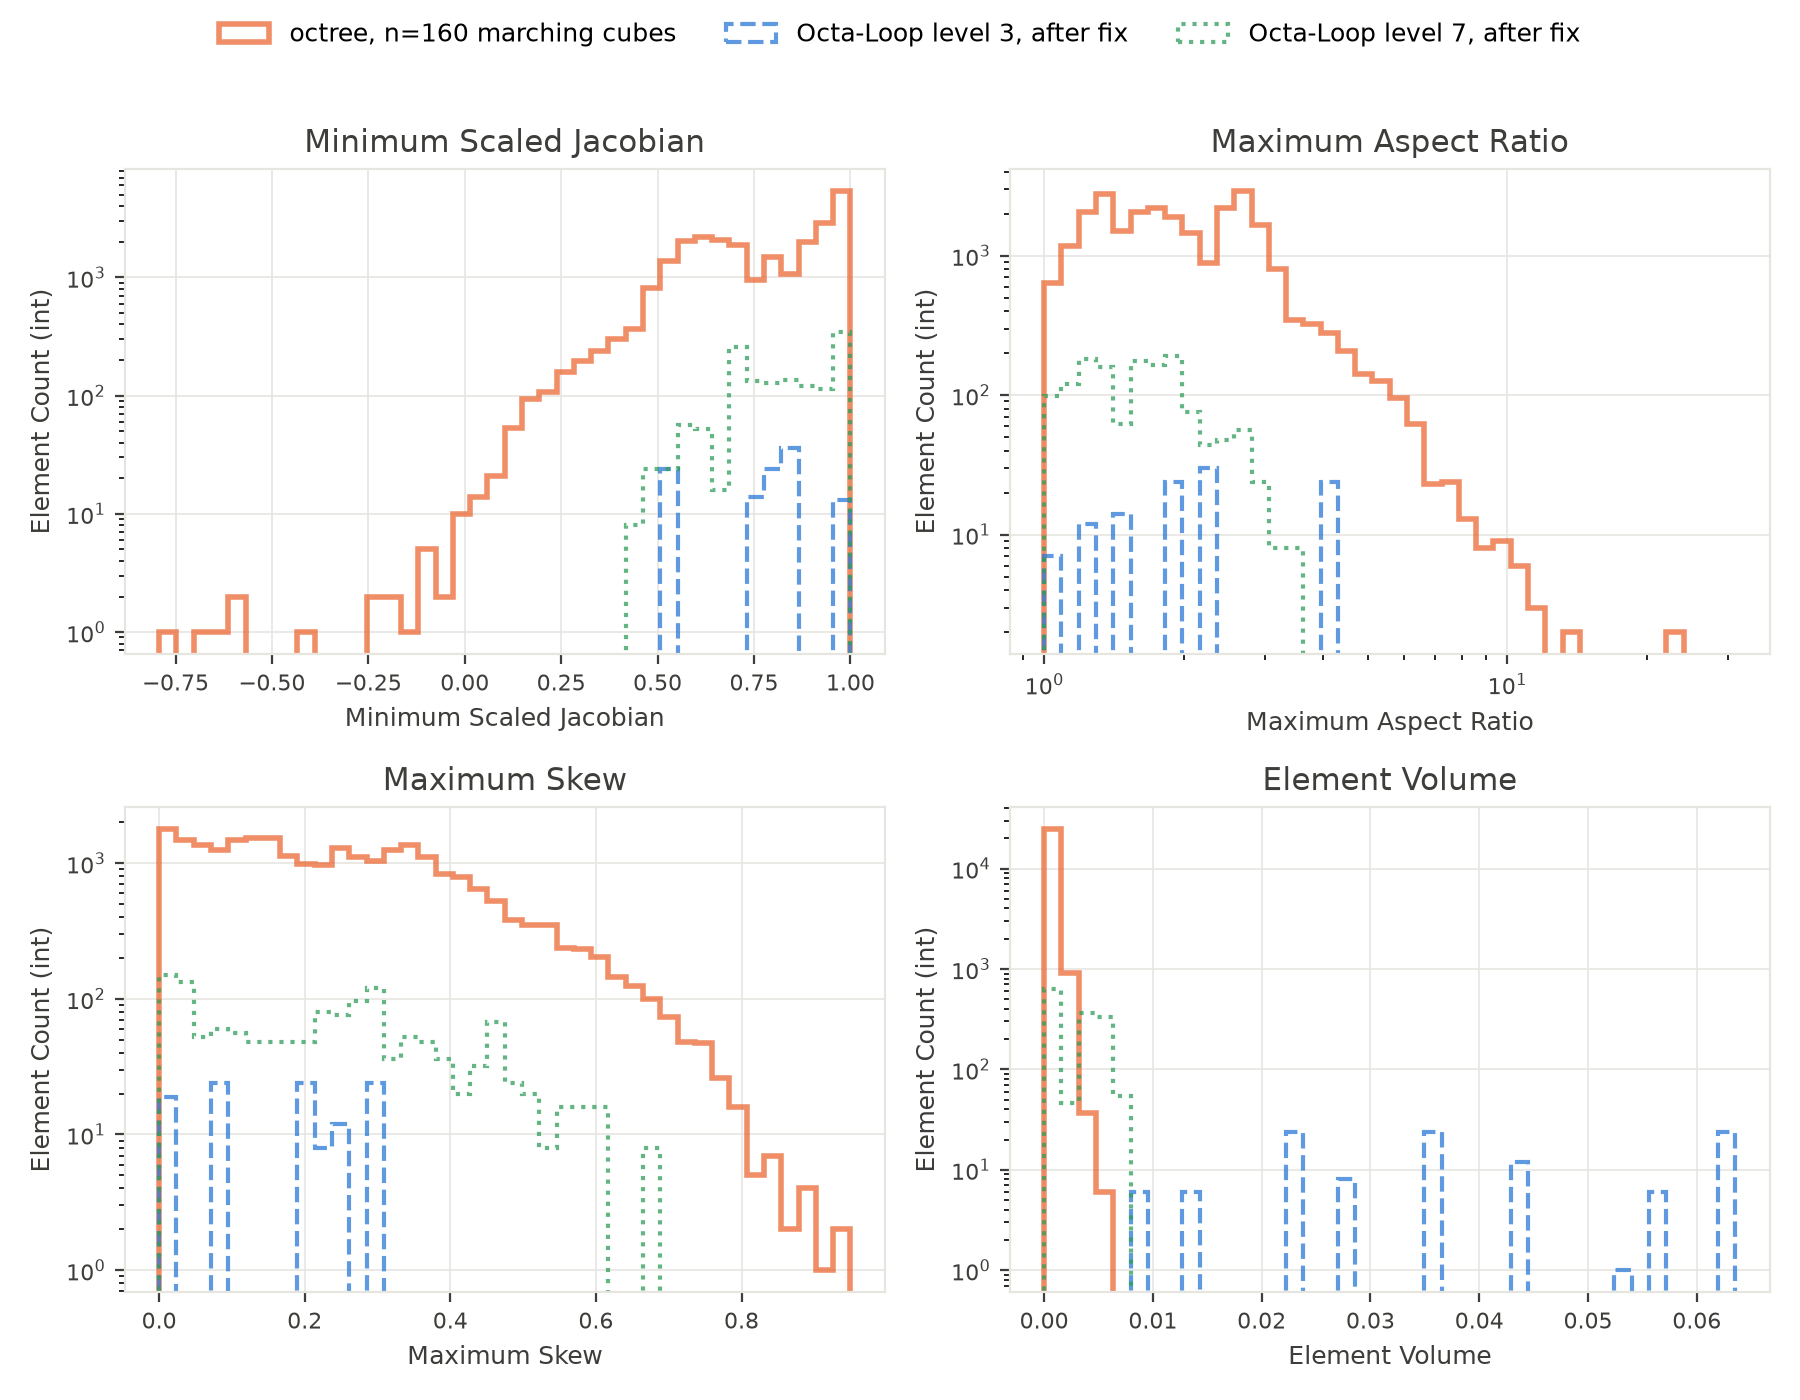
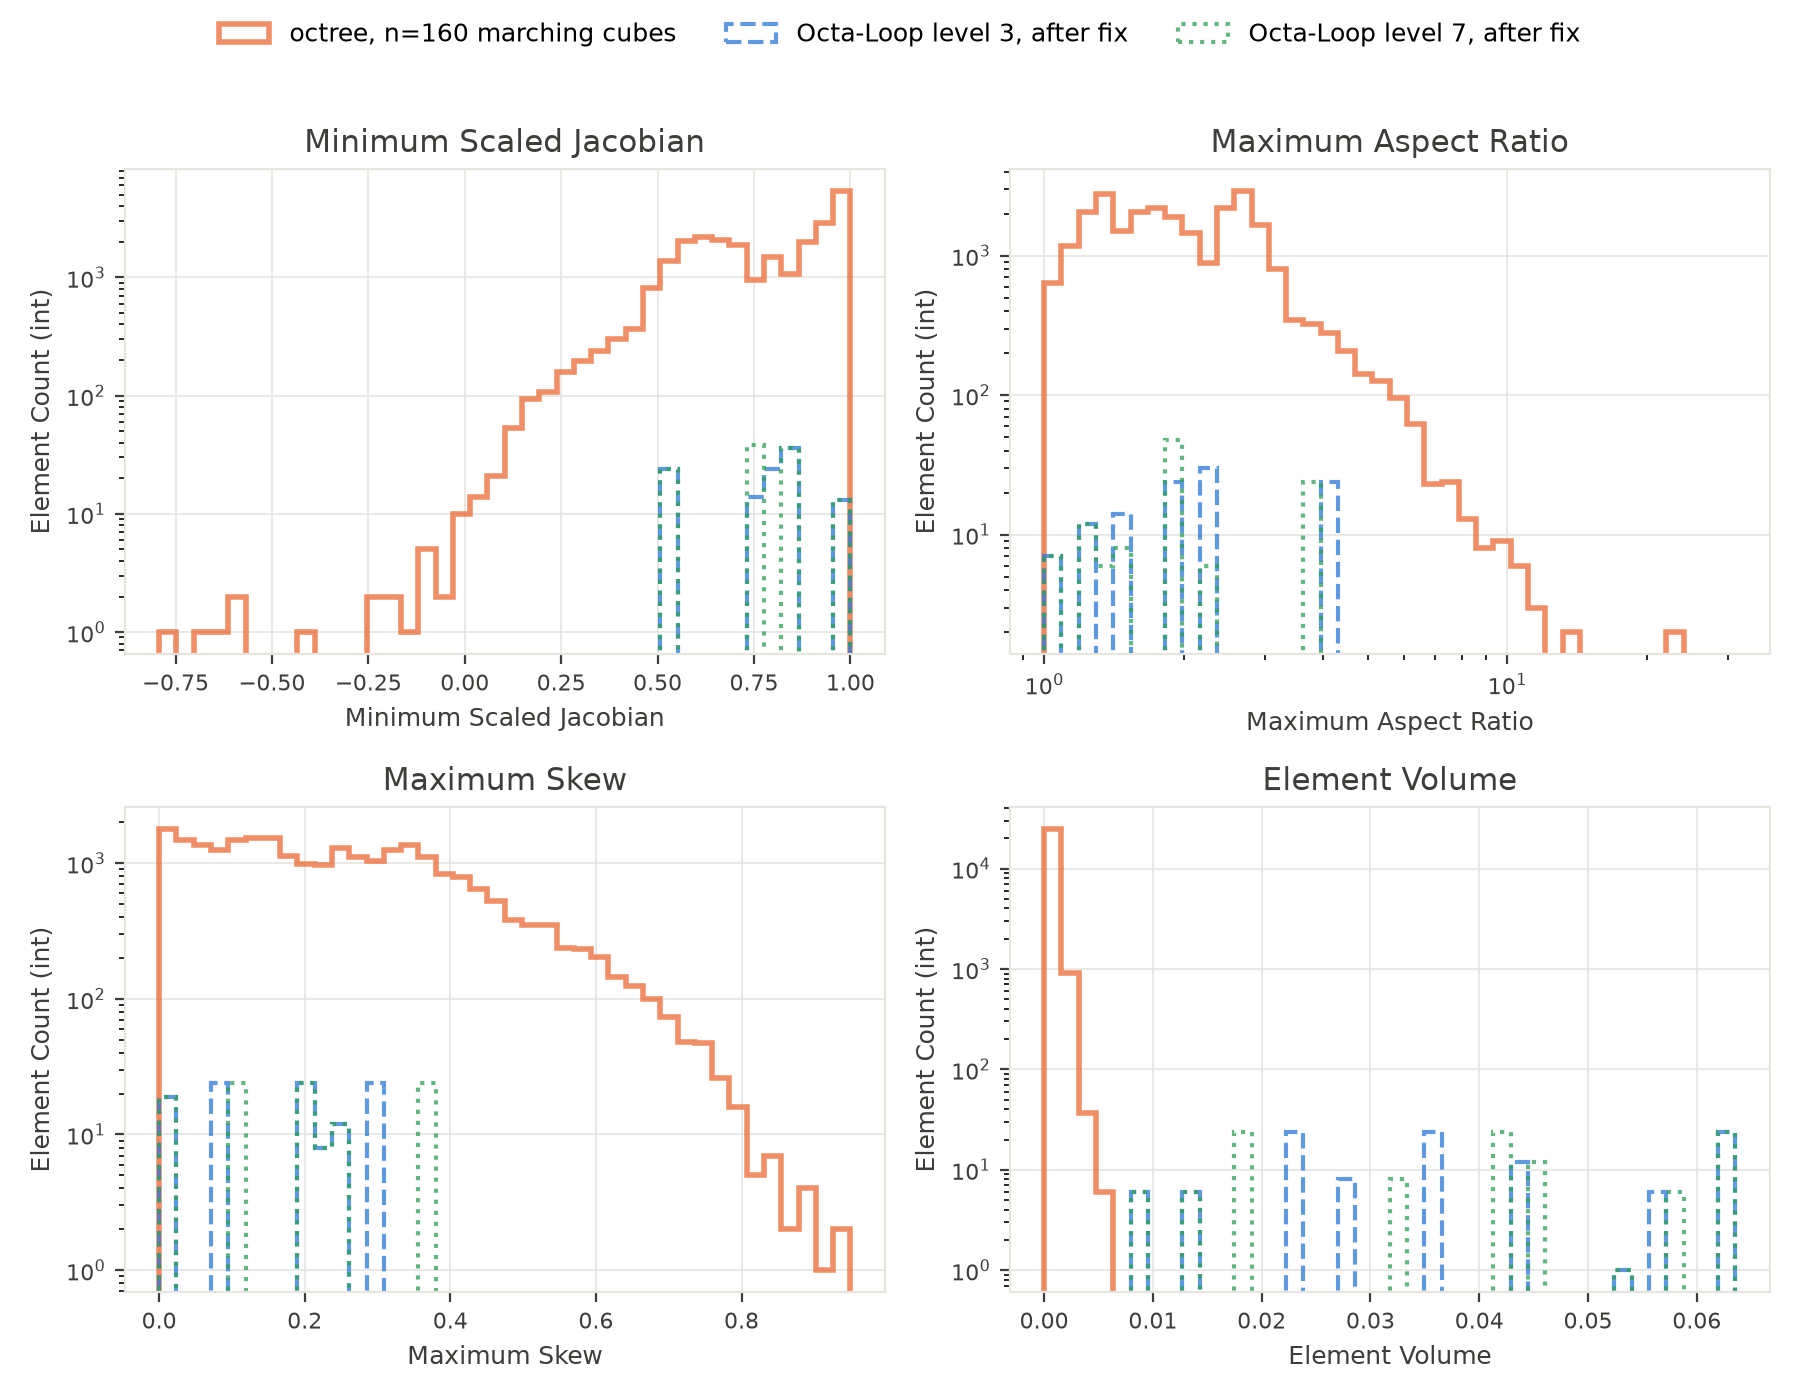
docs: explain the uneven Octa-Loop level 7 refinement, add Update 4
The Octa-Loop level 7 mesh refines more near one pair of opposite poles
than near the other two, although the surface is symmetric under every
swap of the axes.  The cause is a second defect in conspire, separate
from the fit fix of Update 2.  The shape diameter function loses its
rays at facets that stand nearly perpendicular to a coordinate axis,
and the octree reads those facets as zero thickness.  The released
conspire 0.7.8 has the defect.

Add Update 4.  It gives the pattern, the cause, the effect on the
octree, the fix, and a three-way table of the level 7 mesh: before the
fix, with the fit fix only, and with both fixes.  With both fixes the
mesh has 111 elements, not 1,415, and all six poles match.  Its volume
is 2.8% above the sphere, against 0.36% before, and Update 4 says so.
The shape diameter fix leaves the level 3 mesh and the marching cubes
mesh unchanged.

Update the after-fix rows and figures to use both fixes.  Strike the
Update 3 claim that level 7 changes in symmetry only, keep it visible,
and point to Update 4.  Add two figures of the three level 7 meshes, whole
and cut, and draw them from unit_sphere_figures.py.  The before-fix figures
are unchanged, byte for byte.

Changed region(s): [[0.4044, 0.3071, 0.4356, 0.3379]]

diff --git a/book/examples/gallery/academic/unit_sphere_figures.py b/book/examples/gallery/academic/unit_sphere_figures.py
@@ -16,13 +16,17 @@
     unit_sphere_control_meshes_cut.png  the same meshes, cut at z = 0
     unit_sphere_control_meshes_pre_fix.png      the same meshes, pre-fix Octa-Loop
     unit_sphere_control_meshes_cut_pre_fix.png  the pre-fix meshes, cut at z = 0
+    unit_sphere_level7.png       the three Octa-Loop level 7 meshes: before, fit fix, both fixes
+    unit_sphere_level7_cut.png   the same meshes, cut at z = 0
     unit_sphere_smooth_meshes.png       the octree meshes of the n = 160 surface, smoothed
     unit_sphere_smooth_meshes_cut.png   the same meshes, cut at z = 0
     unit_sphere_smooth_quality.png      quality histograms of the same three meshes
 
 The `_pre_fix` figures read `unit_sphere_control_loopNN_pre_fix.inp` and
 `.csv`.  Those files come from `automesh` built with `conspire` 0.7.7, before
-the fix of the Control Study.  See the Reproduce section of unit_sphere.md.
+the fix of the Control Study.  The level 7 figure also reads
+`unit_sphere_control_loop07_fit_fix.inp` and `.csv`, which come from a build
+with the fit fix only.  See the Reproducibility section of unit_sphere.md.
 
 Example
 -------
@@ -42,7 +46,8 @@ unit_sphere_meshers_cut.png, unit_sphere_quality.png,
 unit_sphere_control.png, unit_sphere_control_surfaces.png,
 unit_sphere_control_pre_fix.png, unit_sphere_control_meshes.png,
 unit_sphere_control_meshes_cut.png, unit_sphere_control_meshes_pre_fix.png,
-unit_sphere_control_meshes_cut_pre_fix.png, unit_sphere_smooth_meshes.png,
+unit_sphere_control_meshes_cut_pre_fix.png, unit_sphere_level7.png,
+unit_sphere_level7_cut.png, unit_sphere_smooth_meshes.png,
 unit_sphere_smooth_meshes_cut.png, and unit_sphere_smooth_quality.png.
 """
 
@@ -87,6 +92,11 @@ CONTROL_PANELS_PRE_FIX = (
     ("octree, n=160 marching cubes", "unit_sphere_octree_n160"),
     ("Octa-Loop level 3, before fix", "unit_sphere_control_loop03_pre_fix"),
     ("Octa-Loop level 7, before fix", "unit_sphere_control_loop07_pre_fix"),
+)
+LEVEL7_PANELS = (
+    ("Octa-Loop level 7, before fix", "unit_sphere_control_loop07_pre_fix"),
+    ("Octa-Loop level 7, fit fix only", "unit_sphere_control_loop07_fit_fix"),
+    ("Octa-Loop level 7, both fixes", "unit_sphere_control_loop07"),
 )
 SMOOTH_PANELS = (
     ("octree, no smoothing", "unit_sphere_octree_n160"),
@@ -528,6 +538,12 @@ def main() -> None:
             output="unit_sphere_control_meshes_cut_pre_fix.png"
             if cut
             else "unit_sphere_control_meshes_pre_fix.png",
+            cut=cut,
+        )
+        meshes_plot(
+            here=here,
+            panels=LEVEL7_PANELS,
+            output="unit_sphere_level7_cut.png" if cut else "unit_sphere_level7.png",
             cut=cut,
         )
         meshes_plot(

diff --git a/book/examples/gallery/academic/unit_sphere.md b/book/examples/gallery/academic/unit_sphere.md
@@ -605,13 +605,14 @@ figure is produced by [`unit_sphere_figures.py`](#unit_sphere_figurespy).
 | Octa-Loop level 3, before fix | 0.7.7 | 512 | 0.23492 | 111 | 0.384 | 0.749 |
 | Octa-Loop level 3, after fix | fix | 512 | 0.23492 | 111 | 0.534 | 0.767 |
 | Octa-Loop level 7, before fix | 0.7.7 | 131,072 | 0.01473 | 1,415 | 0.439 | 0.816 |
-| Octa-Loop level 7, after fix | fix | 131,072 | 0.01473 | 1,415 | 0.441 | 0.816 |
+| Octa-Loop level 7, after fix | fix | 131,072 | 0.01473 | 111 | 0.548 | 0.774 |
 
 The before-fix rows and figures come from `conspire` 0.7.7.  The after-fix
-rows and figures come from a build of `conspire` with the fix of
-[Update 2](#update-2-2026-09-30), which is not yet released.  The marching
-cubes mesh comes from 0.7.7 in both sets.  See
-[Update 3](#update-3-2026-09-30).
+rows and figures come from a build of `conspire` with the fixes of
+[Update 2](#update-2-2026-09-30) and [Update 4](#update-4-2026-09-30), which
+are not yet released.  The marching cubes mesh comes from 0.7.7 in both sets.
+See [Update 3](#update-3-2026-09-30).  Level 7 changes again in Update 4, from
+1,415 elements to 111.
 
 **Before the fix (`conspire` 0.7.7).**
 
@@ -649,7 +650,8 @@ Figure: The same three meshes after the fix.  The marching cubes mesh on the
 left is unchanged, from `conspire` 0.7.7.  The Octa-Loop level 3 mesh (center)
 is now symmetric across the coordinate planes, and its minimum scaled
 Jacobian rises from 0.384 to 0.534.  Level 7 (right) is also symmetric, and
-its quality changes by 0.002 in the minimum.  The figure is produced by
+its octree is coarser: 111 elements where it had 1,415 (see
+[Update 4](#update-4-2026-09-30)).  The figure is produced by
 [`unit_sphere_figures.py`](#unit_sphere_figurespy).
 
 ![unit_sphere_control_meshes_cut.png](unit_sphere_control_meshes_cut.png)
@@ -686,7 +688,7 @@ also lags Sculpt's.
 | Octa-Loop level 3, before fix | 0.7.7 | 111 | 0.384 | 0.749 |
 | Octa-Loop level 3, after fix | fix | 111 | 0.534 | 0.767 |
 | Octa-Loop level 7, before fix | 0.7.7 | 1,415 | 0.439 | 0.816 |
-| Octa-Loop level 7, after fix | fix | 1,415 | 0.441 | 0.816 |
+| Octa-Loop level 7, after fix | fix | 111 | 0.548 | 0.774 |
 
 **Octa-Loop level 3:**
 
@@ -696,7 +698,8 @@ later experiments refuted.  It stays visible for the record.  The
 [Update 2](#update-2-2026-09-30) corrects two conclusions of that update.
 Everything in the two Octa-Loop lists and the Observations describes
 `conspire` 0.7.7 and the before-fix figures.  The table and the figures above
-also show the fix, from [Update 3](#update-3-2026-09-30).
+also show the fix, from [Update 3](#update-3-2026-09-30) and
+[Update 4](#update-4-2026-09-30).
 
 1. The Octa-Loop level 3 mesh (center panel) is visibly not symmetric across
    the $xy$, $yz$, and $zx$ planes, unlike the other meshes on this page.
@@ -922,12 +925,15 @@ the rerun, the installed `automesh` reproduced the old rows exactly: 111
 elements with 0.384 and 0.749 at level 3, and 1,415 with 0.439 and 0.816 at
 level 7.
 
+In this update, "fit fix" means the fix of Update 2.  Update 4 adds a second
+fix.
+
 | mesh | `conspire` | elements | MSJ min | MSJ mean | max edge ratio | max skew | mirror mismatch |
 | :--- | :--- | ---: | ---: | ---: | ---: | ---: | :--- |
 | Octa-Loop level 3 | 0.7.7 | 111 | 0.384 | 0.749 | 4.22 | 0.481 | 0.2348, 0.2348, 0.2725 |
-| Octa-Loop level 3 | fix | 111 | **0.534** | **0.767** | 4.15 | 0.300 | **0, 0, 0** |
+| Octa-Loop level 3 | fit fix | 111 | **0.534** | **0.767** | 4.15 | 0.300 | **0, 0, 0** |
 | Octa-Loop level 7 | 0.7.7 | 1,415 | 0.439 | 0.816 | 3.61 | 0.679 | 0.0143, 0.0143, 0.0143 |
-| Octa-Loop level 7 | fix | 1,415 | 0.441 | 0.816 | 3.60 | 0.678 | **0, 0, 0** |
+| Octa-Loop level 7 | fit fix | 1,415 | 0.441 | 0.816 | 3.60 | 0.678 | **0, 0, 0** |
 
 The mirror mismatch is the largest distance from a reflected node to the
 nearest node, for the $x$, $y$, and $z$ reflections, measured on the nodes
@@ -938,9 +944,11 @@ that `automesh` wrote.
    by 0.018, and the largest skew falls from 0.481 to 0.300.  The element
    count does not change.  The center panel of the first after-fix figure
    shows the symmetric mesh.
-2. **Level 7 changes in symmetry only.**  The mismatch falls from 0.0143 to
+2. ~~**Level 7 changes in symmetry only.**  The mismatch falls from 0.0143 to
    exactly 0.  The quality changes by 0.002 in the minimum and not at all in
-   the mean.
+   the mean.~~  The mismatch does fall from 0.0143 to exactly 0, and the
+   quality changes by 0.002 in the minimum with the fit fix alone.  A second
+   defect, in [Update 4](#update-4-2026-09-30), changes level 7 much more.
 3. **Level 3 gets less accurate in volume.**  The input surface encloses
    4.0926, which is 2.30% below the exact $4\pi/3 \approx 4.1888$.  The old
    mesh encloses 4.1909, which is 2.40% above the surface and 0.05% above the
@@ -959,6 +967,81 @@ that `automesh` wrote.
    panel titles, it reproduced the three before-fix figures that were
    committed to this repository, byte for byte.  The titles of both sets now
    say "before fix" or "after fix."
+
+#### Update 4, 2026-09-30
+
+A reader noticed that the Octa-Loop level 7 mesh refines more near one pair of
+opposite poles than near the other two.  The surface is symmetric under every
+swap of the axes, so all six poles should match.  They did not, before the fit
+fix and after it.  A second defect in `conspire` causes this.  The released
+0.7.8 has it too.
+
+1. **The pattern.**  Within 25° of each pole, the before-fix mesh has 231
+   elements at $+x$ and at $-x$.  It has 39, 39, 39, and 40 at $+y$, $-y$, $+z$,
+   and $-z$.  The smallest element volume near $\pm x$ is 0.00022, against
+   0.0032 near the other poles.  The fit fix leaves this pattern: 231, 231, 39,
+   39, 40, and 39.  The input is not the cause.  Swapping any two axes maps its
+   vertices onto vertices within $10^{-7}$, and the four facets at each pole
+   have the same area, $2.771 \times 10^{-6}$.  By the node coordinates, the
+   refined pair is $\pm x$.
+2. **The cause: rays lost in the shape diameter function.**  The function casts
+   31 rays from the centroid of each facet and drops any hit on the facet
+   itself.  The search returns only the nearest hit.  A facet that stands nearly
+   perpendicular to a coordinate axis accepts its own plane at
+   $t \approx 4 \times 10^{-17}$, because the ray test scales its tolerance with
+   the facet's extent along that axis.  That hit is the nearest, so the filter
+   drops the ray and the real hit, 2.0 away, is never reported.  At the four
+   facets of each $\pm x$ pole, all 31 rays are lost.  At each facet of the
+   other poles, 30 of 31 are lost and 1 survives.  A facet with no rays gets
+   thickness 0.
+3. **The effect on the octree.**  The shape diameter at the $\pm x$ pole
+   vertices is 0.0000, and it is 0.4713 on the next ring.  The valid value is
+   1.8953, and the other poles reach 1.4136 at the lowest.  The octree takes its
+   depth from the smallest positive value.  So it gets 5 levels where 3 suffice,
+   and it refines most around $\pm x$.
+4. **The fix.**  A new search returns the nearest hit on any facet but one, and
+   the shape diameter function uses it, so the facet that casts the ray is never
+   a candidate.  The shape diameter is then 1.8953 to 1.8954 at all six poles.
+   The largest difference between a vertex and its axis-swapped partner falls
+   from 1.4136 to 0.0000.
+
+| level 7 mesh | elements | MSJ min | MSJ mean | max edge ratio | max skew | volume | elements within 25° of $+x$, $-x$, $+y$, $-y$, $+z$, $-z$ | axis-swap mismatch |
+| :--- | ---: | ---: | ---: | ---: | ---: | ---: | :--- | ---: |
+| before fix, `conspire` 0.7.7 | 1,415 | 0.439 | 0.816 | 3.61 | 0.679 | 4.2036 | 231, 231, 39, 39, 39, 40 | 0.132 |
+| fit fix only | 1,415 | 0.441 | 0.816 | 3.60 | 0.678 | 4.2039 | 231, 231, 39, 39, 40, 39 | 0.134 |
+| both fixes | 111 | 0.548 | 0.774 | 3.75 | 0.375 | 4.3067 | 7, 7, 7, 7, 7, 8 | 0.000 |
+
+The axis-swap mismatch is the largest distance from an element center to the
+nearest element center after swapping two axes.  The 8 at $-z$ is one element
+center on the 25° boundary, and the 0.000 shows that the element set is the same
+under every swap.
+
+![unit_sphere_level7.png](unit_sphere_level7.png)
+
+Figure: The three Octa-Loop level 7 meshes, painted by the minimum scaled
+Jacobian, in the same view as the figures above.  Left: before the fix.  Center:
+the fit fix only.  The small elements crowd the limbs, where the $\pm x$ poles
+sit.  Right: both fixes.  The figure is produced by
+[`unit_sphere_figures.py`](#unit_sphere_figurespy).
+
+![unit_sphere_level7_cut.png](unit_sphere_level7_cut.png)
+
+Figure: A cut through the middle of the same three meshes, at $z = 0$.  The
+figure is produced by [`unit_sphere_figures.py`](#unit_sphere_figurespy).
+
+5. **A cost.**  The level 7 mesh now has 111 elements, the same count as the
+   level 3 mesh.  Its volume is 4.3067, which is 2.8% above the exact
+   $4\pi/3 \approx 4.1888$.  Before, it was 4.2036, which is 0.36% above.  The
+   extra refinement had improved the volume by accident.  The level 3 mesh is
+   0.71% above.
+6. **What does not change.**  The Octa-Loop level 3 mesh is the same, with 111
+   elements and the same quality.  The shape diameter fix does not change the
+   marching cubes $n = 160$ mesh either.  With that fix alone, the mesh has the
+   same 25,815 elements, quality, and mirror mismatch as with the released
+   `conspire`.  The marching cubes results on this page stand.
+7. **Status.**  The fix is a separate change on a local branch of `conspire`, and
+   it is not released.  The after-fix rows of the table and the after-fix
+   figures above use both fixes.
 
 ## Marching Cubes Surface Smoothing
 
@@ -1196,10 +1279,13 @@ for L in 03 07; do
 done
 ```
 
-The after-fix meshes need `automesh` built on `conspire` with the fix of
-[Update 2](#update-2-2026-09-30), which is not yet released.  With the
-released `automesh`, `unit_sphere_mesh.py` writes the unsuffixed Octa-Loop
-meshes with the before-fix result.  See [Update 3](#update-3-2026-09-30).
+The after-fix meshes need `automesh` built on `conspire` with the fixes of
+[Update 2](#update-2-2026-09-30) and [Update 4](#update-4-2026-09-30), which
+are not yet released.  With the released `automesh`, `unit_sphere_mesh.py`
+writes the unsuffixed Octa-Loop meshes with the before-fix result.  The level 7
+figure of Update 4 also reads `unit_sphere_control_loop07_fit_fix.inp` and
+`.csv`.  A build with the fit fix only makes them.  See
+[Update 3](#update-3-2026-09-30).
 
 The generated meshes, segmentations, and metrics are not stored with the
 book.  Only the figures are.
